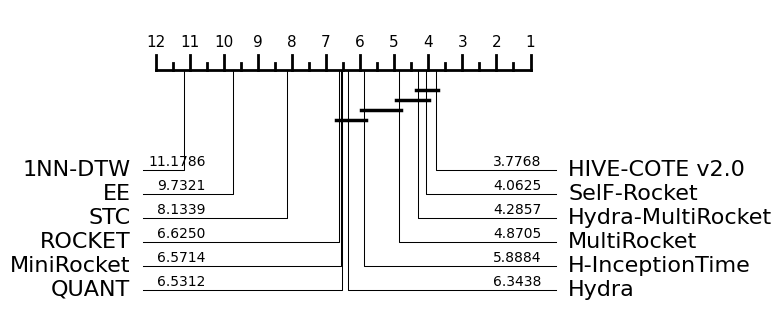
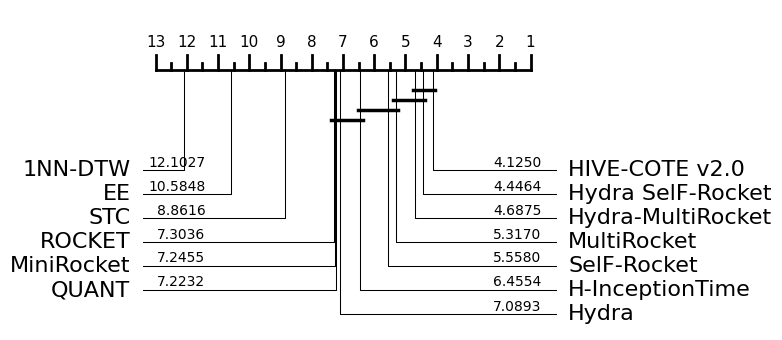
add corrected results

Changed region(s): [[0.0, 0.0909, 1.0, 0.9697]]

diff --git a/README.md b/README.md
@@ -7,7 +7,7 @@ This repository contains the code related to the paper
 
 *Preprint*: [arxiv:2409.01115](https://arxiv.org/pdf/2409.01115)
 
-> <div align="justify">This article presents a new approach based on MiniRocket, called SelF-Rocket (Selected Features Rocket), for fast time series classification (TSC). Unlike existing approaches based on random convolution kernels, it dynamically selects the best couple of input representations and pooling operator during the training process. SelF-Rocket achieves state-of-the-art accuracy on the University of California Riverside (UCR) TSC benchmark datasets.</div>
+> <div align="justify">This article presents a new approach based on MiniRocket, called SelF-Rocket, for fast time series classification (TSC). Unlike existing approaches based on random convolution kernels, it dynamically selects the best couple of input representations and pooling operator during the training process. SelF-Rocket achieves state-of-the-art accuracy on the University of California Riverside (UCR) TSC benchmark datasets.</div>
 
 ## Reference
 Please cite:
@@ -25,173 +25,16 @@ Please cite:
 
 ## Results
 
-SelF-Rocket has been evaluated on the UCR archive. Results show it is as accurate as Hydra-MultiRocket and HIVE-COTE v2.0, despite having only one type of feature, relatively faster than Hydra-MultiRocket in term of training time and as fast as MiniRockect is term of prediction time.
+**Note:  Results initially presented were incorrect.**
 
-### Comparison of SelF-Rocket and other SOTA methods performance (critical difference diagram)
+Hydra-SelF-Rocket is as accurate as Hydra-MultiRocket and HIVE-COTE v2.0, despite having less features, and also has a relatively shorter classifier training time.
+
+### Comparison of SelF-Rocket and other SOTA methods performance (critical difference diagram and heat map)
 
 ![](img/crit_diag_sr_hit.png)
 
-
-###  Comparison of SelF-Rocket  and related methods training time
-
-![](img/CT_All_methods_rocket_V2.png)
-
-###  Comparison of SelF-Rocket  and related methods prediction time
-
-![](img/CT_TEST.png)
+![](img/heatmap_HS.png)
 
 
-## Reproducing the results
-
-### Data
-The paper [Bake off redux: a review and experimental evaluation of recent time series classification algorithms](https://arxiv.org/abs/2304.13029) provide with [tsml-eval](https://tsml-eval.readthedocs.io/en/latest/publications/2023/tsc_bakeoff/tsc_bakeoff_2023.html) a folder containing all the 112 UCR datatets with their 30 resamples available [here](https://drive.google.com/file/d/1V36LSZLAK6FIYRfPx6mmE5euzogcXS83/view)
-
-### Performance of each couple IR-PO (Section 3)
-
-To obtain Table 1 of our paper, run [mod_minirocket](./code/performance_mod_minirocket.py). It will generate a csv file with the mean performance of each IR-PO couple for all the 112 UCR datasets selected with 30 resamples.
-
-### Feature Generation (Section 4)
-
-While SelF-Rocket uses [MiniRocket](https://arxiv.org/abs/2012.08791) as baseline, our code is based on the original implementation of [MultiRocket](https://arxiv.org/abs/2102.00457). 9996 or 19992 features are extracted from each combinaison (IR-PO). In this implementation IR = {BASE,DIFF}, PO = {PPV,GMP,MPV,MIPV,LSPV}. The source code of the Feature Generation module is available [here](./code/features_generator.py)
-
-### Performance of SelF-Rocket (Section 5)
-
-To compute the data needed to plot Figures 4-12 and Tables 2-3, run [performance_self_rocket](./code/performance_self_rocket.py).
-
-```
-Arguments:
--fpk --features_per_kernel  type=int : number of PO
--fpc --features_per_classifier type=int : number of features per mini-classifier (max 9996)
--df --inputDataFolder type=str : path of datasets (required)
--dn --inputDatasetName type=str : name of the tested dataset (required)
--k --k_fold type=int : number of folds
--r --num_resamples type=int : number of resamples to use
-
-Examples:
-> py performance_self_rocket.py -df "../datasets_UCR_resamp_tsv/" -dn "ACSF1" 
-> py performance_self_rocket.py -df "../datasets_UCR_resamp_tsv/" -dn "Adiac" -fpc 9996 -k 3
- 
-``` 
 
 
-The mean performance (over 30 resamples) of SelF-Rocket (k = 2, f = 9996) on the 112 selected UCR datasets.
-
-| dataset                        | SELECTED (IR-PO) | SelF-Rocket MEAN ACCURACY | MINIROCKET MEAN ACCURACY |
-|--------------------------------|------------------|---------------------------|--------------------------|
-| ACSF1                          | LSPV             | 0.85266674                | 0.8246666666666667       |
-| Adiac                          | PPV_MIX          | 0.8285592                 | 0.8015345268542199       |
-| ArrowHead                      | PPV_DIFF         | 0.8790476                 | 0.8832380952380954       |
-| BME                            | PPV              | 0.9917778                 | 0.9919999999999998       |
-| Beef                           | PPV_MIX          | 0.79666656                | 0.7655555555555554       |
-| BeetleFly                      | GMP_DIFF         | 0.915                     | 0.9099999999999999       |
-| BirdChicken                    | PPV_DIFF         | 0.9066666                 | 0.9183333333333332       |
-| CBF                            | PPV              | 0.9961851                 | 0.9965185185185186       |
-| Car                            | PPV_MIX          | 0.92611104                | 0.9205555555555556       |
-| Chinatown                      | MIPV_MIX         | 0.97142863                | 0.9687074829931972       |
-| ChlorineConcentration          | PPV_DIFF         | 0.78690106                | 0.753532986111111        |
-| CinCECGTorso                   | MIPV_DIFF        | 0.96589375                | 0.8745169082125603       |
-| Coffee                         | GMP              | 0.9988095                 | 0.9988095238095238       |
-| Computers                      | PPV_DIFF         | 0.84840006                | 0.8033333333333332       |
-| CricketX                       | PPV              | 0.8261538                 | 0.8241880341880342       |
-| CricketY                       | PPV              | 0.8423931                 | 0.8399999999999999       |
-| CricketZ                       | PPV              | 0.84247863                | 0.8391452991452992       |
-| Crop                           | MPV_MIX          | 0.7698789                 | 0.7641011904761903       |
-| DiatomSizeReduction            | GMP              | 0.9620915                 | 0.9436819172113288       |
-| DistalPhalanxOutlineAgeGroup   | MIPV_MIX         | 0.8004796                 | 0.7944844124700239       |
-| DistalPhalanxOutlineCorrect    | MIPV_DIFF        | 0.8385266                 | 0.8253623188405796       |
-| DistalPhalanxTW                | MIPV             | 0.69472414                | 0.6892086330935251       |
-| ECG200                         | PPV              | 0.9020001                 | 0.8990000000000002       |
-| ECG5000                        | MPV_MIX          | 0.94739264                | 0.9464888888888888       |
-| ECGFiveDays                    | GMP              | 0.99686414                | 0.9905536198219127       |
-| EOGHorizontalSignal            | MPV_MIX          | 0.86556166                | 0.8360957642725599       |
-| EOGVerticalSignal              | MPV_MIX          | 0.8213628                 | 0.7995395948434623       |
-| Earthquakes                    | LSPV_DIFF        | 0.7482014                 | 0.7333333333333332       |
-| ElectricDevices                | PPV_MIX          | 0.8915704                 | 0.8745774434790127       |
-| EthanolLevel                   | LSPV             | 0.7086001                 | 0.6635333333333334       |
-| FaceAll                        | PPV              | 0.98347145                | 0.983293885601578        |
-| FaceFour                       | PPV              | 0.94242436                | 0.9412878787878787       |
-| FacesUCR                       | PPV              | 0.96915436                | 0.9686016260162602       |
-| FiftyWords                     | PPV_MIX          | 0.83692306                | 0.8284981684981686       |
-| Fish                           | PPV_DIFF         | 0.9820952                 | 0.9754285714285716       |
-| FordA                          | LSPV_MIX         | 0.9507071                 | 0.9449747474747474       |
-| FordB                          | LSPV_MIX         | 0.92720157                | 0.9207818930041152       |
-| FreezerRegularTrain            | PPV_DIFF         | 0.9993684                 | 0.9990877192982457       |
-| FreezerSmallTrain              | LSPV             | 0.9934503                 | 0.9876023391812866       |
-| GunPoint                       | LSPV_MIX         | 0.9984445                 | 0.9919999999999999       |
-| GunPointAgeSpan                | LSPV_MIX         | 0.99757385                | 0.9924050632911392       |
-| GunPointMaleVersusFemale       | LSPV             | 0.9998945                 | 1.0                      |
-| GunPointOldVersusYoung         | PPV              | 1.0                       | 1.0                      |
-| Ham                            | MIPV             | 0.8520635                 | 0.8488888888888889       |
-| HandOutlines                   | MIPV_MIX         | 0.9448648                 | 0.9382882882882881       |
-| Haptics                        | LSPV             | 0.5507576                 | 0.5452380952380953       |
-| Herring                        | MIPV             | 0.63958335                | 0.6088541666666667       |
-| HouseTwenty                    | MPV_DIFF         | 0.9647059                 | 0.965546218487395        |
-| InlineSkate                    | GMP_MIX          | 0.5071515                 | 0.4896363636363636       |
-| InsectEPGRegularTrain          | MPV              | 1.0                       | 1.0                      |
-| InsectEPGSmallTrain            | LSPV             | 0.9942436                 | 0.993172690763052        |
-| InsectWingbeatSound            | MIPV_DIFF        | 0.66511786                | 0.6575420875420875       |
-| ItalyPowerDemand               | MIPV_MIX         | 0.96595407                | 0.9602202785876254       |
-| LargeKitchenAppliances         | MPV_MIX          | 0.92924446                | 0.9024000000000001       |
-| Lightning2                     | PPV              | 0.7633879                 | 0.7601092896174866       |
-| Lightning7                     | MPV              | 0.79908687                | 0.7771689497716895       |
-| Mallat                         | MPV_MIX          | 0.9636532                 | 0.9551528073916135       |
-| Meat                           | MPV              | 0.995                     | 0.9933333333333335       |
-| MedicalImages                  | PPV              | 0.8036842                 | 0.8048245614035087       |
-| MiddlePhalanxOutlineAgeGroup   | MIPV_DIFF        | 0.66580075                | 0.6502164502164501       |
-| MiddlePhalanxOutlineCorrect    | MPV_MIX          | 0.84776634                | 0.843413516609393        |
-| MiddlePhalanxTW                | MIPV_DIFF        | 0.56580085                | 0.5541125541125542       |
-| MixedShapesRegularTrain        | PPV_DIFF         | 0.9762612                 | 0.9693745704467354       |
-| MixedShapesSmallTrain          | PPV_DIFF         | 0.9485224                 | 0.9421030927835052       |
-| MoteStrain                     | PPV              | 0.91400427                | 0.9136581469648563       |
-| NonInvasiveFetalECGThorax1     | MPV_MIX          | 0.9620525                 | 0.9518066157760815       |
-| NonInvasiveFetalECGThorax2     | PPV_MIX          | 0.9662596                 | 0.9635114503816793       |
-| OSULeaf                        | PPV_MIX          | 0.96831965                | 0.9568870523415979       |
-| OliveOil                       | PPV              | 0.9133333                 | 0.9155555555555556       |
-| PhalangesOutlinesCorrect       | PPV_MIX          | 0.85384613                | 0.8457653457653458       |
-| Phoneme                        | LSPV_MIX         | 0.35685655                | 0.2908403656821379       |
-| PigAirwayPressure              | LSPV_MIX         | 0.94967955                | 0.8748397435897437       |
-| PigArtPressure                 | LSPV_MIX         | 0.96217954                | 0.9596153846153848       |
-| PigCVP                         | LSPV_MIX         | 0.907532                  | 0.9179487179487179       |
-| Plane                          | PPV_DIFF         | 1.0                       | 1.0                      |
-| PowerCons                      | MIPV             | 0.9831482                 | 0.9838888888888887       |
-| ProximalPhalanxOutlineAgeGroup | MIPV_DIFF        | 0.84894305                | 0.8450406504065041       |
-| ProximalPhalanxOutlineCorrect  | MPV_MIX          | 0.9058419                 | 0.8961053837342499       |
-| ProximalPhalanxTW              | MIPV_DIFF        | 0.8107316                 | 0.8032520325203251       |
-| RefrigerationDevices           | LSPV_MIX         | 0.75582224                | 0.707822222222222        |
-| Rock                           | LSPV_MIX         | 0.85933334                | 0.8046666666666666       |
-| ScreenType                     | PPV_DIFF         | 0.6361777                 | 0.5584888888888889       |
-| SemgHandGenderCh2              | MIPV             | 0.9523888                 | 0.9108333333333334       |
-| SemgHandMovementCh2            | MIPV             | 0.7922963                 | 0.6834074074074075       |
-| SemgHandSubjectCh2             | MIPV             | 0.93103707                | 0.8821481481481481       |
-| ShapeletSim                    | LSPV             | 1.0                       | 0.9996296296296295       |
-| ShapesAll                      | LSPV_MIX         | 0.94088894                | 0.9349444444444444       |
-| SmallKitchenAppliances         | LSPV             | 0.82595557                | 0.8137777777777779       |
-| SmoothSubspace                 | MIPV_MIX         | 0.9731111                 | 0.9586666666666667       |
-| SonyAIBORobotSurface1          | GMP_MIX          | 0.95546305                | 0.9480865224625624       |
-| SonyAIBORobotSurface2          | PPV_DIFF         | 0.9566981                 | 0.9415879678209162       |
-| StarLightCurves                | PPV_MIX          | 0.9815849                 | 0.9814351627003399       |
-| Strawberry                     | PPV_MIX          | 0.98072076                | 0.9791891891891892       |
-| SwedishLeaf                    | PPV_MIX          | 0.97338676                | 0.9615466666666668       |
-| Symbols                        | PPV_MIX          | 0.9761808                 | 0.9670686767169179       |
-| SyntheticControl               | MPV_MIX          | 0.99344444                | 0.9912222222222222       |
-| ToeSegmentation1               | LSPV             | 0.9402046                 | 0.9410818713450291       |
-| ToeSegmentation2               | MPV              | 0.9405128                 | 0.9410256410256408       |
-| Trace                          | PPV              | 1.0                       | 1.0                      |
-| TwoLeadECG                     | GMP_DIFF         | 0.998127                  | 0.9973075797483174       |
-| TwoPatterns                    | MPV              | 0.99999166                | 0.994975                 |
-| UMD                            | PPV_MIX          | 0.9916666                 | 0.9905092592592594       |
-| UWaveGestureLibraryAll         | MIPV_MIX         | 0.98291457                | 0.9749860413176996       |
-| UWaveGestureLibraryX           | PPV_MIX          | 0.864666                  | 0.8566815559277872       |
-| UWaveGestureLibraryY           | PPV_MIX          | 0.80030704                | 0.7867857807556298       |
-| UWaveGestureLibraryZ           | PPV_MIX          | 0.80918485                | 0.8015726782058441       |
-| Wafer                          | PPV_DIFF         | 0.99996215                | 0.9988860047588145       |
-| Wine                           | GMP_MIX          | 0.91913587                | 0.9290123456790124       |
-| WordSynonyms                   | PPV_MIX          | 0.7739289                 | 0.7682863113897596       |
-| Worms                          | PPV_MIX          | 0.74112564                | 0.7320346320346319       |
-| WormsTwoClass                  | PPV_MIX          | 0.78138524                | 0.7913419913419912       |
-| Yoga                           | PPV_MIX          | 0.9329999                 | 0.9190666666666666       |
-
-
-## Acknowledgements
-
-This research project, supported and financed by the ANR (Agence Nationale pour la Recherche), is part of the Labcom (Laboratoire Commun) MYEL (MobilitY and Reliability of Electrical chain Lab) involving LSEE, LGI2A and CRITTM2A.
